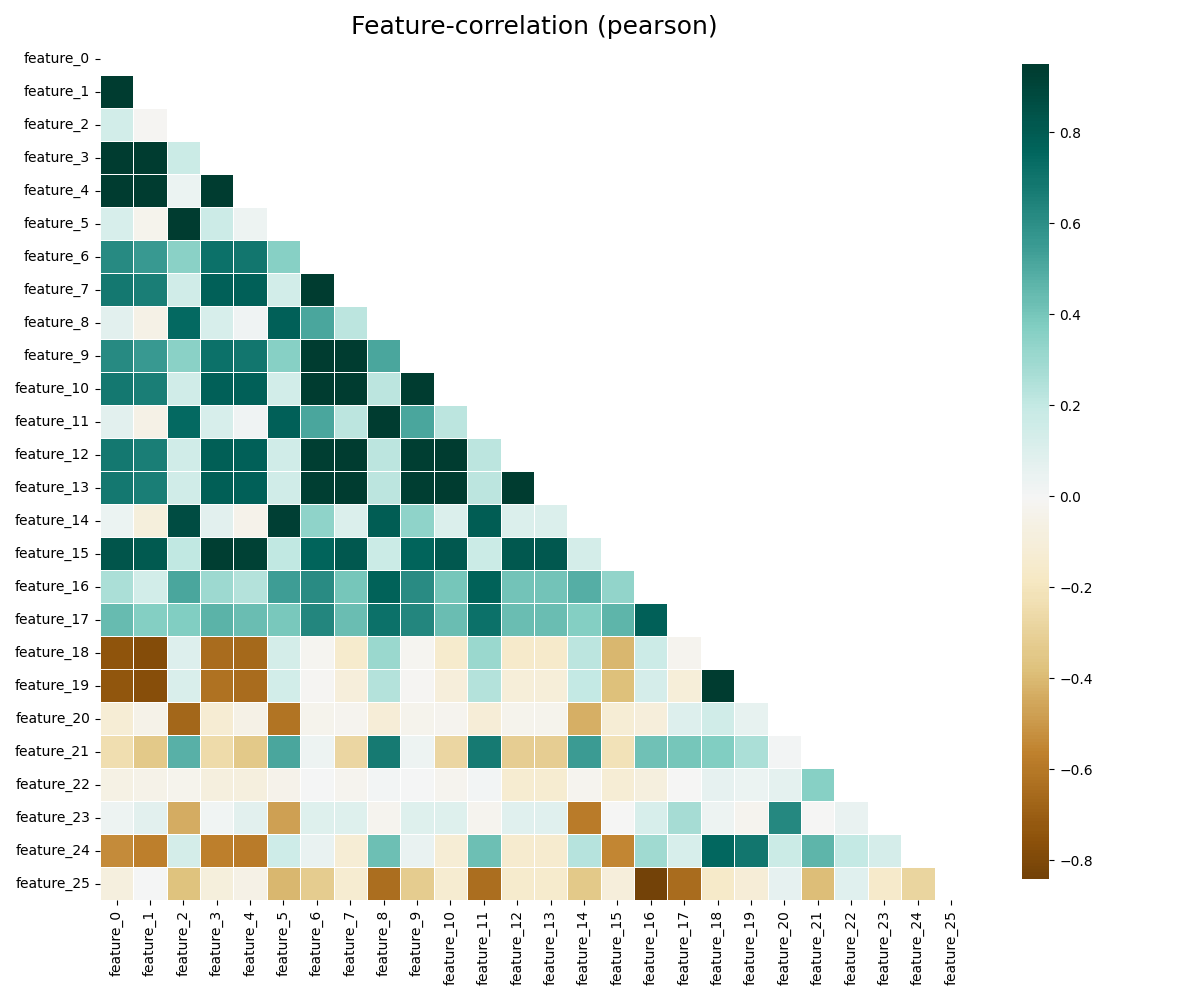
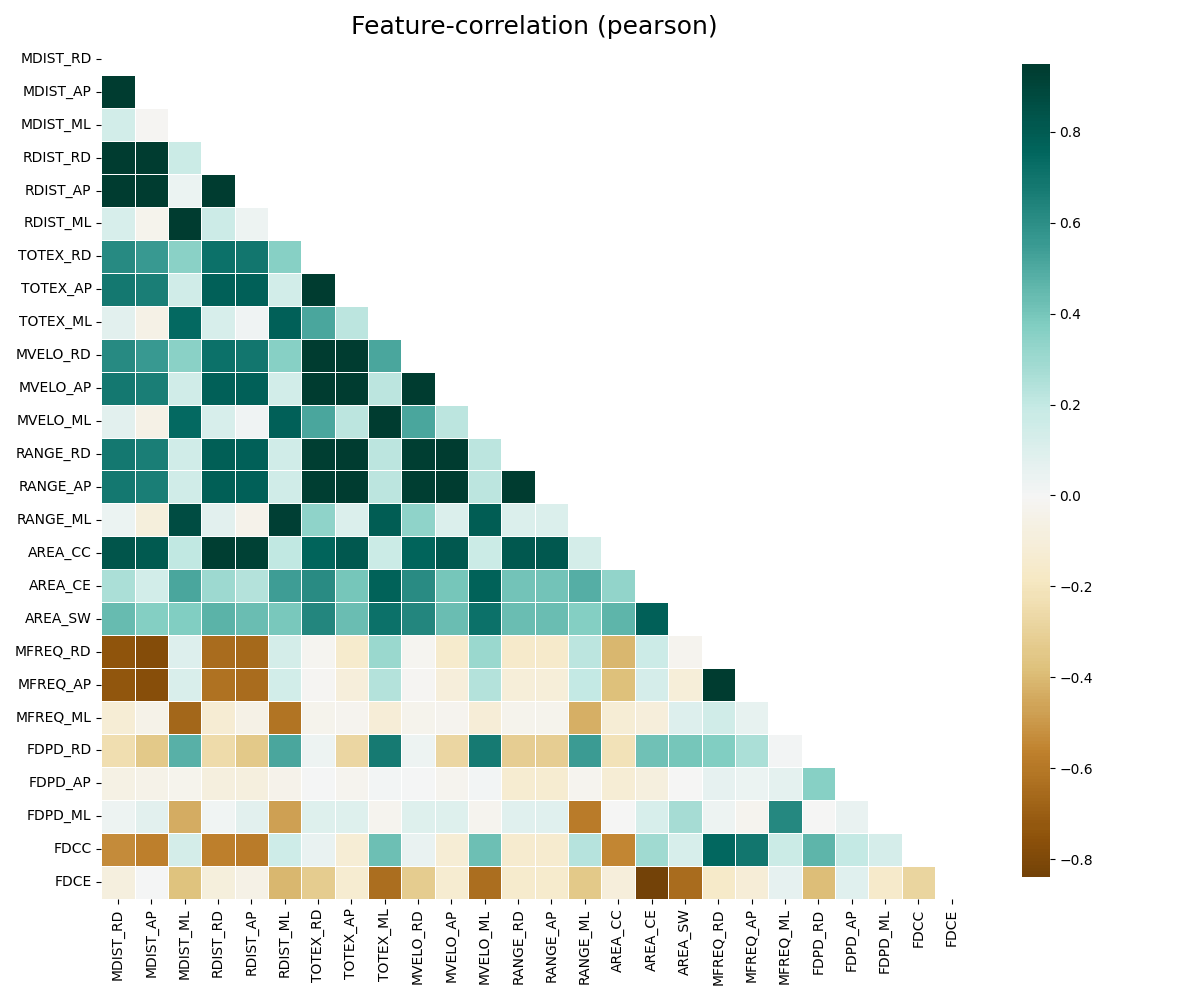
correcting feature names in feature selection

diff --git a/Manuscripts/src/tables/top10worst_feature_selection.tex b/Manuscripts/src/tables/top10worst_feature_selection.tex
@@ -1,16 +1,16 @@
 \begin{tabular}{llllll}
 \toprule
-{} &     D-prime &     F-ratio &    mRMR-Dif &      mRMR-Q &  Redundancy \\
+{} &   D-prime &   F-ratio &  mRMR-Dif &    mRMR-Q & Redundancy \\
 \midrule
-16 &   feature\_8 &  feature\_22 &  feature\_11 &   feature\_8 &   feature\_2 \\
-17 &  feature\_19 &   feature\_5 &   feature\_8 &  feature\_11 &  feature\_14 \\
-18 &   feature\_4 &  feature\_19 &  feature\_23 &   feature\_3 &  feature\_21 \\
-19 &  feature\_15 &  feature\_11 &   feature\_3 &   feature\_4 &  feature\_24 \\
-20 &  feature\_14 &   feature\_8 &  feature\_14 &  feature\_14 &  feature\_18 \\
-21 &  feature\_22 &  feature\_14 &   feature\_4 &  feature\_15 &  feature\_19 \\
-22 &  feature\_17 &  feature\_17 &  feature\_15 &  feature\_23 &  feature\_25 \\
-23 &  feature\_23 &   feature\_9 &  feature\_17 &  feature\_17 &  feature\_20 \\
-24 &   feature\_9 &   feature\_6 &   feature\_6 &   feature\_6 &  feature\_23 \\
-25 &   feature\_6 &  feature\_23 &   feature\_9 &   feature\_9 &  feature\_22 \\
+16 &  TOTEX\_ML &   FDPD\_AP &  MVELO\_ML &  TOTEX\_ML &   MDIST\_ML \\
+17 &  MFREQ\_AP &  RDIST\_ML &  TOTEX\_ML &  MVELO\_ML &   RANGE\_ML \\
+18 &  RDIST\_AP &  MFREQ\_AP &   FDPD\_ML &  RDIST\_RD &    FDPD\_RD \\
+19 &   AREA\_CC &  MVELO\_ML &  RDIST\_RD &  RDIST\_AP &       FDCC \\
+20 &  RANGE\_ML &  TOTEX\_ML &  RANGE\_ML &  RANGE\_ML &   MFREQ\_RD \\
+21 &   FDPD\_AP &  RANGE\_ML &  RDIST\_AP &   AREA\_CC &   MFREQ\_AP \\
+22 &   AREA\_SW &   AREA\_SW &   AREA\_CC &   FDPD\_ML &       FDCE \\
+23 &   FDPD\_ML &  MVELO\_RD &   AREA\_SW &   AREA\_SW &   MFREQ\_ML \\
+24 &  MVELO\_RD &  TOTEX\_RD &  TOTEX\_RD &  TOTEX\_RD &    FDPD\_ML \\
+25 &  TOTEX\_RD &   FDPD\_ML &  MVELO\_RD &  MVELO\_RD &    FDPD\_AP \\
 \bottomrule
 \end{tabular}

diff --git a/Manuscripts/src/tables/top10best_feature_selection.tex b/Manuscripts/src/tables/top10best_feature_selection.tex
@@ -1,16 +1,16 @@
 \begin{tabular}{llllll}
 \toprule
-{} &     D-prime &     F-ratio &    mRMR-Dif &      mRMR-Q &  Redundancy \\
+{} &   D-prime &   F-ratio &  mRMR-Dif &    mRMR-Q & Redundancy \\
 \midrule
-0 &  feature\_20 &   feature\_0 &  feature\_20 &  feature\_20 &   feature\_3 \\
-1 &  feature\_16 &   feature\_7 &  feature\_25 &  feature\_25 &   feature\_9 \\
-2 &  feature\_25 &  feature\_10 &  feature\_16 &  feature\_18 &   feature\_6 \\
-3 &   feature\_0 &  feature\_13 &  feature\_18 &  feature\_21 &  feature\_15 \\
-4 &  feature\_18 &  feature\_12 &  feature\_21 &  feature\_16 &   feature\_4 \\
-5 &  feature\_21 &   feature\_1 &   feature\_0 &  feature\_22 &   feature\_0 \\
-6 &   feature\_1 &  feature\_16 &   feature\_2 &   feature\_2 &  feature\_13 \\
-7 &   feature\_2 &  feature\_20 &   feature\_1 &   feature\_0 &  feature\_12 \\
-8 &   feature\_7 &  feature\_18 &  feature\_24 &   feature\_1 &   feature\_7 \\
-9 &  feature\_10 &  feature\_25 &   feature\_5 &  feature\_24 &  feature\_10 \\
+0 &  MFREQ\_ML &  MDIST\_RD &  MFREQ\_ML &  MFREQ\_ML &   RDIST\_RD \\
+1 &   AREA\_CE &  TOTEX\_AP &      FDCE &      FDCE &   MVELO\_RD \\
+2 &      FDCE &  MVELO\_AP &   AREA\_CE &  MFREQ\_RD &   TOTEX\_RD \\
+3 &  MDIST\_RD &  RANGE\_AP &  MFREQ\_RD &   FDPD\_RD &    AREA\_CC \\
+4 &  MFREQ\_RD &  RANGE\_RD &   FDPD\_RD &   AREA\_CE &   RDIST\_AP \\
+5 &   FDPD\_RD &  MDIST\_AP &  MDIST\_RD &   FDPD\_AP &   MDIST\_RD \\
+6 &  MDIST\_AP &   AREA\_CE &  MDIST\_ML &  MDIST\_ML &   RANGE\_AP \\
+7 &  MDIST\_ML &  MFREQ\_ML &  MDIST\_AP &  MDIST\_RD &   RANGE\_RD \\
+8 &  TOTEX\_AP &  MFREQ\_RD &      FDCC &  MDIST\_AP &   TOTEX\_AP \\
+9 &  MVELO\_AP &      FDCE &  RDIST\_ML &      FDCC &   MVELO\_AP \\
 \bottomrule
 \end{tabular}

diff --git a/Codes/MLPackage/feature_selection.py b/Codes/MLPackage/feature_selection.py
@@ -79,7 +79,14 @@ def main():
     features = np.load("./Datasets/pfeatures.npy")
 
     print("[INFO] feature shape: ", features.shape)
+
+
+
+
+
+    f_names = ['MDIST_RD', 'MDIST_AP', 'MDIST_ML', 'RDIST_RD', 'RDIST_AP', 'RDIST_ML', 'TOTEX_RD', 'TOTEX_AP', 'TOTEX_ML', 'MVELO_RD', 'MVELO_AP', 'MVELO_ML', 'RANGE_RD', 'RANGE_AP', 'RANGE_ML','AREA_CC', 'AREA_CE', 'AREA_SW', 'MFREQ_RD', 'MFREQ_AP', 'MFREQ_ML', 'FDPD_RD', 'FDPD_AP', 'FDPD_ML', 'FDCC', 'FDCE']
     columnsName = ["feature_" + str(i) for i in range(features.shape[1]-2)] + [ "subject_ID", "left(0)/right(1)"]
+    columnsName = f_names + [ "subject_ID", "left(0)/right(1)"]
 
     DF_features = pd.DataFrame(
         features,
@@ -105,6 +112,8 @@ def main():
     plt.savefig(PATH)
     plt.close('all')
     plt.show()
+
+
 
 
     print("[INFO] Done!!!")
